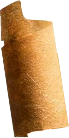
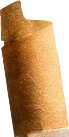
Adjusted ribbon end transparency

diff --git a/pin_maps/pin_maps.py b/pin_maps/pin_maps.py
@@ -26,7 +26,7 @@ def main() -> None:
     create_output_dir()
     
     height_text_space = 750
-    text = u'Inge & Maik-Günter'
+    text = u'Inge & Das ist ein Test'
     added_frame_px = 150
     # germany = Map('de-neg.shp', 'space.png', [5.7, 15.3, 47.2, 56.2])
     # germany = Map('de-neg.shp', 'old-cut.png', [5.7, 15.3, 47.2, 56.2])
@@ -35,7 +35,6 @@ def main() -> None:
     
     for location in params.locations:
         specific_transforms = img_transforms + [Ribbon(location.name)] if params.ribbons else img_transforms
-        # specific_transforms = img_transforms + [OffsetLettering(location.name)]
         print('TRANSOFRMS', specific_transforms)
         try:
             pin = Pin(location, params.marker_symbol, specific_transforms)
@@ -51,9 +50,9 @@ def main() -> None:
     cropping = (300, 650, 1760, 2580) # (left, top, right, bottom)
     img_new, (width_cropped, height_cropped) = crop_add_text_space(raw_img_name, cropping, height_text_space)
     draw, font_height = write_header(img_new, params.head_font_path, text, height_cropped, added_frame_px)
-    
-    t = 'Fulda, 11. September 2001. Ich werde dich für immer lieben. Für immer und immer und immer und immer und immer.'
-    img_new = write_main_text(
+   
+    t = 'München und Nürnberg sind in Bayern und das ist ein sehr langer Testtext. Hallo, Wolfsburg ist eine Stadt. Ping ping pong ping ping pong Wanzleben.'
+    '''img_new = write_main_text(
         img_new,
         t,
         params.main_font_path, 
@@ -61,11 +60,84 @@ def main() -> None:
         height_cropped,
         added_frame_px,
         font_height
+    )'''
+    test_text_heraldry(
+        t, 
+        img_new, 
+        ImageFont.truetype(params.main_font_path, 70),
+        70,
+        30,
+        [location.name.lower() for location in params.locations],
+        height_cropped,
+        added_frame_px,
     )
 
     framed_img = frame_img(img_new, added_frame_px)
     framed_img.save(os.path.join(os.getcwd(), 'output', 'written.png'))
 
+town_name_format = lambda word: word.lower().strip('.?,!:;-%()"\'$€/')
+
+def test_text_heraldry(
+    text,
+    img,
+    font,
+    font_size,
+    line_spacing,
+    town_names,
+    height_cropped,
+    added_frame_px,
+):
+    print()
+    print(town_names)
+    print()
+    _, font_height = font.getsize('Tg')
+    start_y = height_cropped + added_frame_px + font_height + line_spacing
+
+    for start_x, line in pattern_2nd_text(text, img.width, font, font_size, line_spacing):
+        words = line.split(' ')
+        town_name_split = [(False, [])]
+        for word in words:
+            n_splits = len(town_name_split)
+            if town_name_format(word) in town_names:
+                town_name_split.append((True, [word]))
+            else:
+                town_name_split[n_splits - 1][1].append(word)
+
+        if town_name_split[0] == (False, []):
+            town_name_split = town_name_split[1:]
+
+        # town_name_split = [(partition[0], ' '.join(partition[1])) for partition in town_name_split]
+
+        printing = []
+        for coat_wanted, words in town_name_split:
+            if coat_wanted:
+                printing.append(get_coat_from_cache(town_name_format(words[0])))
+            printing.append(' '.join(words))
+
+        print(printing, [type(x) is str for x in printing])
+        
+        drawing = ImageDraw.Draw(img)
+        for print_ele in printing:
+            if type(print_ele) is str:
+                drawing.text((start_x, start_y), print_ele, font = font, fill = 'black')
+                w, _ = font.getsize(print_ele)
+                start_x += w
+            else:
+                coat_w, coat_h = proportional_size(font_height, print_ele)
+                print_ele.thumbnail((coat_w, coat_h))
+                img.paste(print_ele, (start_x, start_y))
+                start_x += coat_w
+
+        start_y += font_height + line_spacing
+
+def get_coat_from_cache(town_name):
+    return Image.open(os.path.join('data', 'img', 'pin-cache', f'{town_name}-pin.png'))
+
+def proportional_size(set_height, img) -> Tuple[int, int]:
+    current_w, current_h = img.size
+    max_w, max_h = current_w, current_h,
+    resize_ratio = min(max_w / current_w, max_h/ current_h)
+    return (round(resize_ratio * current_w), round(resize_ratio * current_h))
 
 def create_output_dir() -> None:
     """Creates a new output directory, if there is none."""
@@ -79,7 +151,7 @@ def crop_add_text_space(
     raw_img_name: str,
     cropping: Tuple[float, float, float, float],
     added_text_height: int
-) -> (Image, Tuple[int, int]):
+) -> (Image.Image, Tuple[int, int]):
     """Crops the cartopy output and adds space to write text into below.
 
     Args:

diff --git a/pin_maps/draw/Ribbon.py b/pin_maps/draw/Ribbon.py
@@ -107,7 +107,7 @@ class Ribbon(ImageTransform):
     def transform(self, heraldry: Image.Image) -> Image.Image:
         segment_width, segment_height = self.__segment_left.size # Both have same dimensions.
         
-        eta = 10 # in px
+        eta = 15 # in px
         font = self._get_sized_font(segment_height, eta)
         text_width, _ = font.getsize(self.town_name)
         _, text_height = font.getsize(self.town_name + self._cellar_char)
@@ -117,7 +117,7 @@ class Ribbon(ImageTransform):
         num_segs = 1
         while num_segs * segment_width <= text_width:
             num_segs += 1
-        num_segs += 2 # To provide enough space for the ribbon ends.
+        num_segs += 4 # To provide enough space for the ribbon ends.
 
         ribbon_img = Image.new('RGBA', (num_segs * segment_width, segment_height), color = (0, ) * 4)
         for segment_idx in range(num_segs):
